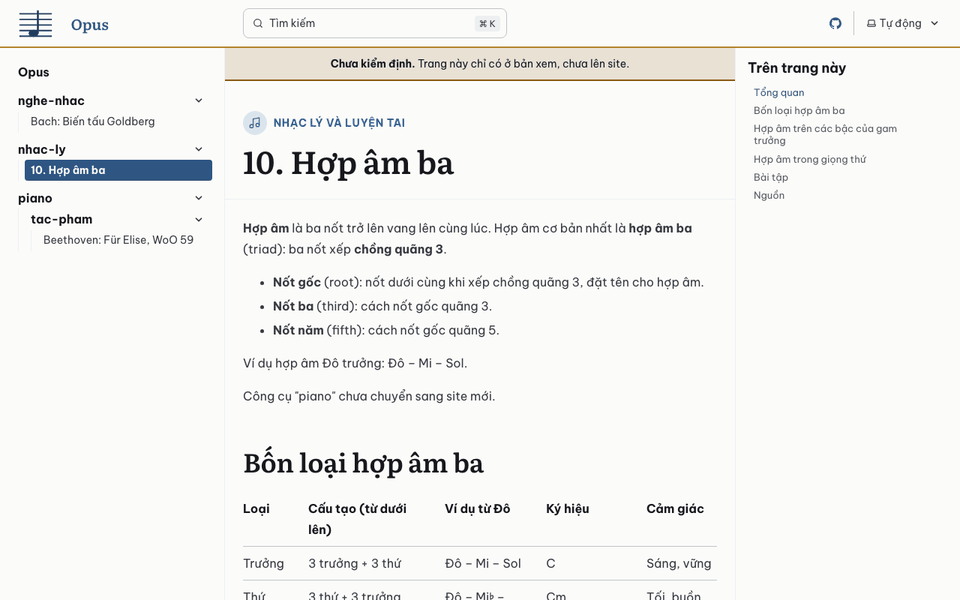
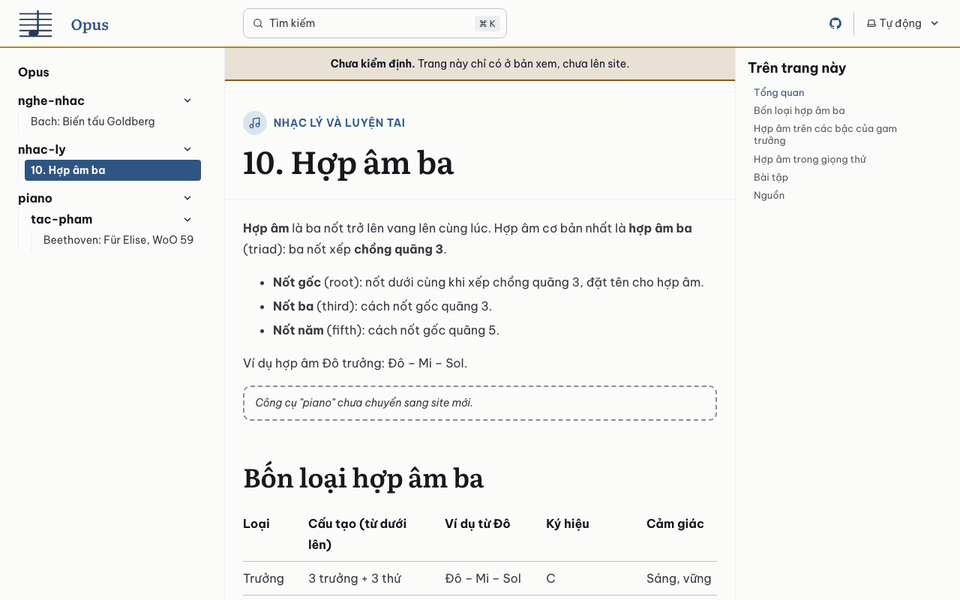
D1.8 sửa theo review: kiểm thử phần bọc tìm kiếm với bản gốc giả, thứ hạng như ô tìm kiếm, summary giữ dấu cách, bảng cuộn có tên, ảnh bài 10
- src/tim-kiem/boc.js: phần bọc thành hàm nhận module gốc; preload, destroy,
  createInstance; tìm có bộ lọc hay sắp xếp (khác rỗng) thì như bản gốc.
- tests: gộp kết quả, basePath, debouncedSearch, preload; API dùng tùy chọn xếp
  hạng của Starlight; "dan" xét mọi kết quả.
- summary trên cảm ứng: padding-block thay flex. BangCuon: aria-label theo mục.
- cong-nghe.md mục 2, 3, 4; báo cáo, hai ảnh bài 10.

diff --git a/src/tim-kiem/boc.js b/src/tim-kiem/boc.js
@@ -1,0 +1,63 @@
+// Phần bọc pagefind.js của Pagefind (D1.8): tìm cả các biến thể "đ" của câu tìm (bien-the.js) rồi gộp kết quả. Viết thành
+// hàm nhận module gốc, để kiểm thử được với một bản gốc giả (tests/tim-kiem.test.mjs); src/tim-kiem/pagefind.js gọi với
+// pagefind-goc.js của bản build. File này chạy trong trình duyệt (chép vào dist/pagefind/ lúc build) và trong kiểm thử.
+import { bienThe } from './bien-the.js';
+
+/**
+ * Gộp kết quả tìm của các biến thể: mỗi kết quả (theo id) một lần, giữ điểm cao nhất; xếp theo điểm giảm dần, cùng điểm
+ * thì kết quả gặp trước (của câu gốc) đứng trước. Các trường khác (thời gian…) lấy theo câu gốc.
+ */
+export function gopKetQua(ds) {
+	const theoId = new Map();
+	for (const k of ds)
+		for (const r of k?.results ?? []) {
+			const cu = theoId.get(r.id);
+			if (!cu) theoId.set(r.id, { r, thu: theoId.size });
+			else if (r.score > cu.r.score) cu.r = r;
+		}
+	const results = [...theoId.values()].sort((a, b) => b.r.score - a.r.score || a.thu - b.thu).map((x) => x.r);
+	return { ...(ds.find(Boolean) ?? {}), results, unfilteredResultCount: results.length };
+}
+
+/**
+ * Bọc module gốc `goc` của Pagefind (chỉ mục ở thư mục `base`): giữ mọi hàm, thay options, search, debouncedSearch,
+ * preload, destroy, createInstance.
+ */
+export function boc(goc, base) {
+	// Bản gốc tự tìm thư mục chỉ mục theo tên file của nó (pagefind.js); đổi tên rồi thì phải báo thẳng thư mục. Trước khi
+	// Pagefind khởi tạo, options() thay hết tùy chọn cũ (ô tìm kiếm gọi options({ excerptLength }) khi mở), nên lần nào
+	// cũng kèm basePath.
+	const options = (tuyChon = {}) => goc.options({ basePath: base, ...tuyChon });
+
+	async function search(cau, tuyChon) {
+		const ds = bienThe(cau);
+		// Tìm có bộ lọc hay sắp xếp riêng: số đếm theo bộ lọc và thứ tự sắp xếp của nhiều lần tìm không gộp đúng được.
+		// Site không dùng hai thứ này, nên khi có thì tìm như bản gốc (không thêm biến thể). Ô tìm kiếm luôn gửi filters: {}
+		// rỗng: rỗng thì không tính.
+		const co = (x) => x && Object.keys(x).length > 0;
+		if (ds.length === 1 || co(tuyChon?.filters) || co(tuyChon?.sort)) return goc.search(cau, tuyChon);
+		return gopKetQua(await Promise.all(ds.map((t) => goc.search(t, tuyChon))));
+	}
+
+	// Như bản gốc: chờ `cho` ms; có lần gọi mới hơn thì trả null, kể cả khi lần gọi mới đến lúc đang tìm.
+	let lan = 0;
+	async function debouncedSearch(cau, tuyChon, cho = 300) {
+		const t = ++lan;
+		await new Promise((ok) => setTimeout(ok, cho));
+		if (t !== lan) return null;
+		const kq = await search(cau, tuyChon);
+		return t === lan ? kq : null;
+	}
+
+	const preload = (cau, tuyChon) => Promise.all(bienThe(cau).map((t) => goc.preload(t, tuyChon))).then(() => {});
+
+	// destroy() của bản gốc bỏ hết tùy chọn: đặt lại basePath cho lần dùng sau
+	async function destroy() {
+		await goc.destroy();
+		await options();
+	}
+
+	const createInstance = (tuyChon = {}) => goc.createInstance({ basePath: base, ...tuyChon });
+
+	return { options, search, debouncedSearch, preload, destroy, createInstance };
+}

diff --git a/src/tim-kiem/pagefind.js b/src/tim-kiem/pagefind.js
@@ -1,33 +1,11 @@
 // Bọc pagefind.js của Pagefind (D1.8): ô tìm kiếm của Starlight nạp file này thay cho bản gốc (đổi tên thành
-// pagefind-goc.js lúc build, src/tim-kiem/tich-hop.mjs). Mọi hàm giữ nguyên, trừ search và debouncedSearch: tìm cả các
-// biến thể "đ" của câu tìm (bien-the.js) rồi gộp kết quả, nên gõ "dan" cũng ra trang có chữ "đàn". Đoạn trích vẫn lấy
-// từ chữ thật của trang.
+// pagefind-goc.js lúc build, src/tim-kiem/tich-hop.mjs). Các hàm khác giữ nguyên; search, debouncedSearch, preload tìm cả
+// các biến thể "đ" của câu tìm rồi gộp kết quả, nên gõ "dan" cũng ra trang có chữ "đàn" (boc.js). Đoạn trích vẫn lấy từ
+// chữ thật của trang.
 import * as goc from './pagefind-goc.js';
-import { bienThe } from './bien-the.js';
+import { boc } from './boc.js';
 
 export * from './pagefind-goc.js';
 
-// Bản gốc tự tìm thư mục chỉ mục theo tên file của nó (pagefind.js); đổi tên rồi thì phải báo thẳng thư mục. options()
-// của Pagefind đặt lại mọi tùy chọn mỗi lần gọi (ô tìm kiếm gọi với excerptLength), nên lần nào cũng kèm basePath.
-const BASE = new URL('./', import.meta.url).pathname;
-export const options = (tuyChon = {}) => goc.options({ basePath: BASE, ...tuyChon });
+export const { options, search, debouncedSearch, preload, destroy, createInstance } = boc(goc, new URL('./', import.meta.url).pathname);
 await options();
-
-export async function search(cau, tuyChon) {
-	const ds = bienThe(cau);
-	if (ds.length === 1) return goc.search(cau, tuyChon);
-	const kq = await Promise.all(ds.map((t) => goc.search(t, tuyChon)));
-	const theoId = new Map();
-	for (const k of kq) for (const r of k?.results ?? []) if (!theoId.has(r.id) || r.score > theoId.get(r.id).score) theoId.set(r.id, r);
-	const results = [...theoId.values()].sort((a, b) => b.score - a.score);
-	return { ...kq[0], results, unfilteredResultCount: results.length };
-}
-
-let lan = 0;
-export async function debouncedSearch(cau, tuyChon, cho = 300) {
-	const t = ++lan;
-	await new Promise((ok) => setTimeout(ok, cho));
-	if (t !== lan) return null;
-	const kq = await search(cau, tuyChon);
-	return t === lan ? kq : null;
-}

diff --git a/src/styles/thanh-phan.css b/src/styles/thanh-phan.css
@@ -249,12 +249,11 @@
 	.oz-ref-toggle {
 		min-height: 44px;
 	}
-	/* mọi dòng tiêu đề của khối thu gọn trong bài (hộp thông tin tác phẩm, khối <details> chuyển từ ??? của site cũ);
-	   flex giữ mũi tên ::before của Starlight cạnh chữ */
+	/* mọi dòng tiêu đề của khối thu gọn trong bài (hộp thông tin tác phẩm, khối <details> chuyển từ ??? của site cũ):
+	   đệm trên dưới cho dòng chữ cao đủ 44 px. Không dùng flex: flex bỏ dấu cách quanh chữ có thẻ ("Xem **đáp án** bài"
+	   thành "Xemđáp ánbài"). Mũi tên ::before của Starlight vẫn đứng giữa dòng (vertical-align: middle). */
 	.sl-markdown-content summary {
-		display: flex;
-		align-items: center;
-		min-height: 44px;
+		padding-block: calc((44px - 1lh) / 2);
 	}
 	.abc-audio .abcjs-inline-audio {
 		flex-wrap: wrap;

diff --git a/plans/lam-lai/cong-nghe.md b/plans/lam-lai/cong-nghe.md
@@ -18,11 +18,12 @@ Công chuyển sang Astro cao (5 hook, cú pháp Material ở 105 file, thành p
 1. **Bộ xử lý Markdown.** Astro 7 mặc định dùng Sätteri (viết bằng Rust) thay cho remark/rehype; Sätteri có plugin riêng (`mdastPlugins`, `hastPlugins`) và không chạy plugin remark/rehype. Muốn giữ remark/rehype thì cài `@astrojs/markdown-remark` và đặt `markdown.processor`. Nhóm Astro nói không định bỏ hỗ trợ unified, nhưng không nói đến bao giờ. Đợt 1 (D1.3, D1.4) thử cả hai cách cho: chỉ thị thành phần, khối ```abc, aside của Starlight, chú thích. Chọn Sätteri nếu làm được hết; không thì dùng unified. Plugin của dự án viết trên cây mdast/hast để chuyển giữa hai bên dễ.
    **Kết quả (D1.3): chọn Sätteri** (`@astrojs/markdown-satteri` 0.4.5, `satteri` 0.10.5). Chỉ thị thành phần, khối ```abc và ```quiz, aside của Starlight, chú thích cuối trang, id cố định cho tiêu đề và danh sách định nghĩa đều chạy, với một plugin mdast của dự án (`src/plugins/opus-markdown.mjs`). D1.4 thử thêm trên trang thật. Ba điều cần biết khi sửa plugin: Astro tách frontmatter trước khi gọi Sätteri và đưa vào `ctx.data.astro.frontmatter`; plugin của dự án chạy trước plugin của Starlight; Astro giữ HTML đã dựng của trang giữa các lần build, nên `src/content.config.ts` bọc bộ nạp trang bằng `dungLaiKhiDoi` (dựng lại mọi trang khi dữ liệu hay plugin đổi).
 2. **Tìm kiếm tiếng Việt.** Chạy bộ truy vấn của `../opus-zero/tests/search.mjs` trên Pagefind. Chữ "đ" không phải chữ "d" có dấu nên có thể không khớp khi gõ "dan"; nếu vậy thì thêm bước chuẩn hóa lúc build (ví dụ một trường ẩn chứa chữ đã bỏ dấu, chỉ cho Pagefind đọc).
+   **Kết quả (D1.8): Pagefind 1.5.2 (Starlight dùng sẵn), bọc `pagefind.js` lúc build.** Pagefind tự bỏ dấu thanh và dấu mũ khi so ("hop am ba" ra "Hợp âm ba"), nhưng "đ" là chữ riêng: "dan" không ra "đàn". Không sửa chỉ mục; `src/tim-kiem/` bọc `pagefind.js` của bản build: mỗi từ bắt đầu bằng "d" được tìm thêm bản "đ", rồi gộp kết quả. Review D1.8 dựng chỉ mục từ 233 trang site cũ để thử: bộ 26 truy vấn của `tests/search.mjs` ra 26/26 qua ô tìm kiếm (bản gốc không bọc: 23/26). Kiểm thử: `tests/tim-kiem.test.mjs`, `tests/trinh-duyet/kiem-tim-kiem.mjs`.
 
 ## 3. Phiên bản và môi trường
 
 - Node 24 trong `.nvmrc` (D1.1): Astro 7.4 cần Node từ 22.23.4; Node 24 là bản LTS, hỗ trợ đến 30/4/2028 (Node 22 của site cũ hết hỗ trợ 30/4/2027). Node 26 thành LTS ngày 28/10/2026: có thể chuyển ở lần nâng cấp tháng 11. Python 3.12 cho `tools/`.
-- Phiên bản đang dùng: `astro` 7.4.2, `@astrojs/starlight` 0.42.7 (D1.1); xem `package.json`.
+- Phiên bản đang dùng: `astro` 7.4.2, `@astrojs/starlight` 0.42.7 (D1.1), Pagefind 1.5.2 (đi kèm Starlight; bản bọc ở `src/tim-kiem/` dựa vào cách hàm `options` của bản này, xem lại khi nâng); xem `package.json`.
 - Ghim phiên bản chính xác trong `package-lock.json`. Nâng mỗi tháng một lần trên nhánh `moi/nang-cap-<tháng>`, gộp khi mọi kiểm thử đạt.
 - abcjs: giữ bản đang dùng trong `../opus-zero/docs/assets/js/vendor/`, chép sang `public/vendor/`.
 
@@ -41,6 +42,7 @@ src/content/docs/           # trang; cùng đường dẫn với ../opus-zero/do
 src/data/                   # cap-do.yml, tac-pham.yml, nha-soan-nhac.yml, thuat-ngu.yml, trang.yml
 src/components/             # thành phần Astro
 src/plugins/                # plugin Markdown của dự án (chỉ thị, khối abc, link "sắp có")
+src/tim-kiem/               # bọc pagefind.js lúc build: gõ "d" vẫn ra chữ "đ"
 src/pages/                  # trang sinh: chặng, danh mục tác phẩm, sách in
 src/scripts/                # module JavaScript chuyển từ ../opus-zero/docs/assets/js/
 src/styles/
